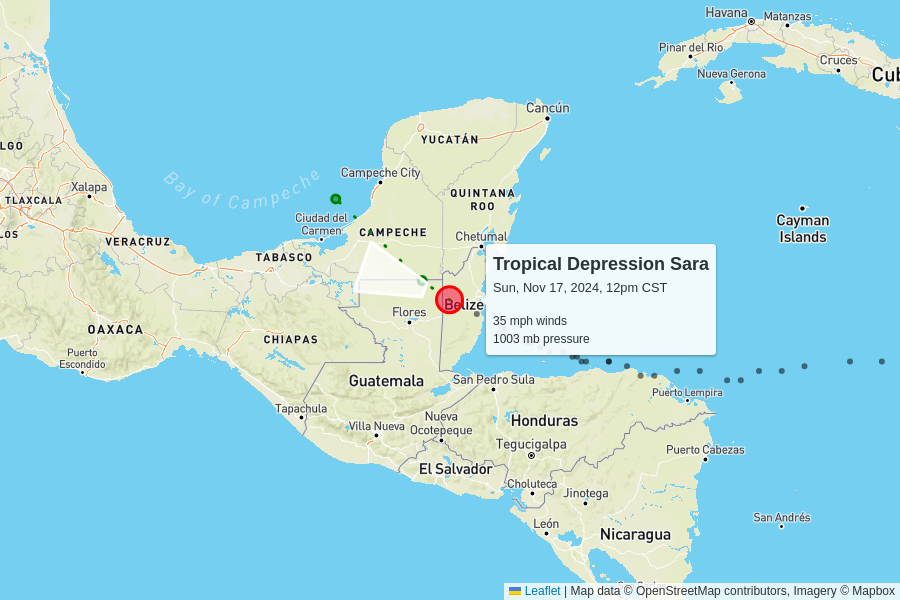
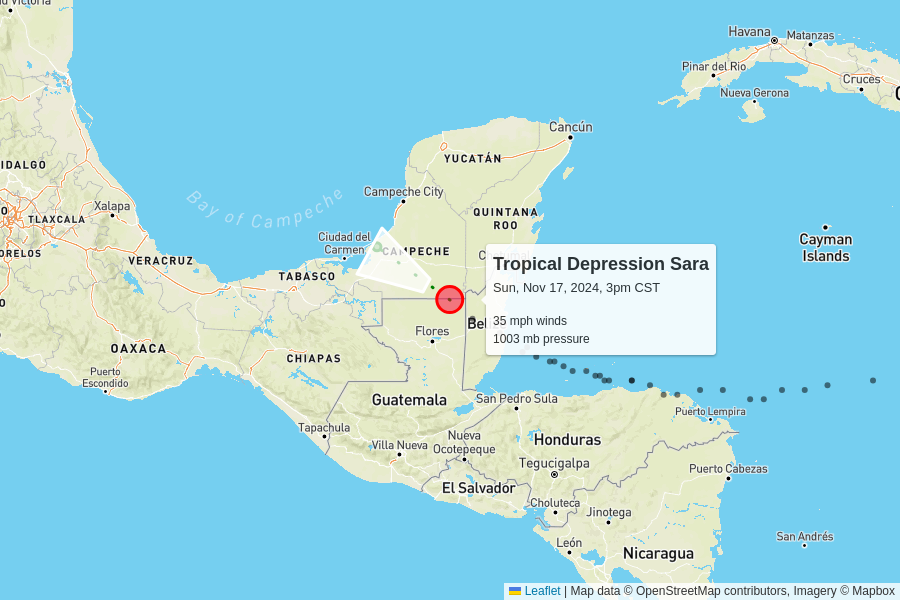
automatic update

diff --git a/docs/index.html b/docs/index.html
@@ -102,7 +102,7 @@
         <td colspan="6" class="storm category-0" >
           <h2>
             Tropical Depression Sara
-            <p class="updated">last updated <span data-time>2024-11-17T18:00:00.000Z</span></p>
+            <p class="updated">last updated <span data-time>2024-11-17T21:00:00.000Z</span></p>
           </h2>
         </td>
       </tr>
@@ -117,12 +117,12 @@
       </tr>
       <tr>
         <td class="spacer"></td>
-        <td>35 mph<br>-5 mph since last update</td>
-        <td>1003 mb<br>+2 mb since last update</td>
+        <td>35 mph<br>0 mph since last update</td>
+        <td>1003 mb<br>0 mb since last update</td>
         <td>
-          8 mph to the west-northwest
+          12 mph to the west-northwest
           <br/>
-          <span style="display: inline-block; font-size: 1.5em; transform: rotate(290deg);">↑</span>
+          <span style="display: inline-block; font-size: 1.5em; transform: rotate(300deg);">↑</span>
         </td>
         <td><a href="https://raw.githubusercontent.com/mgwalker/atlantic-hurricanes/main/data/csv/AL192024.csv">AL192024.csv</a></td>
         <td><a href="https://www.nhc.noaa.gov/archive/2024/SARA.shtml?">NHC advisories</a></td>
